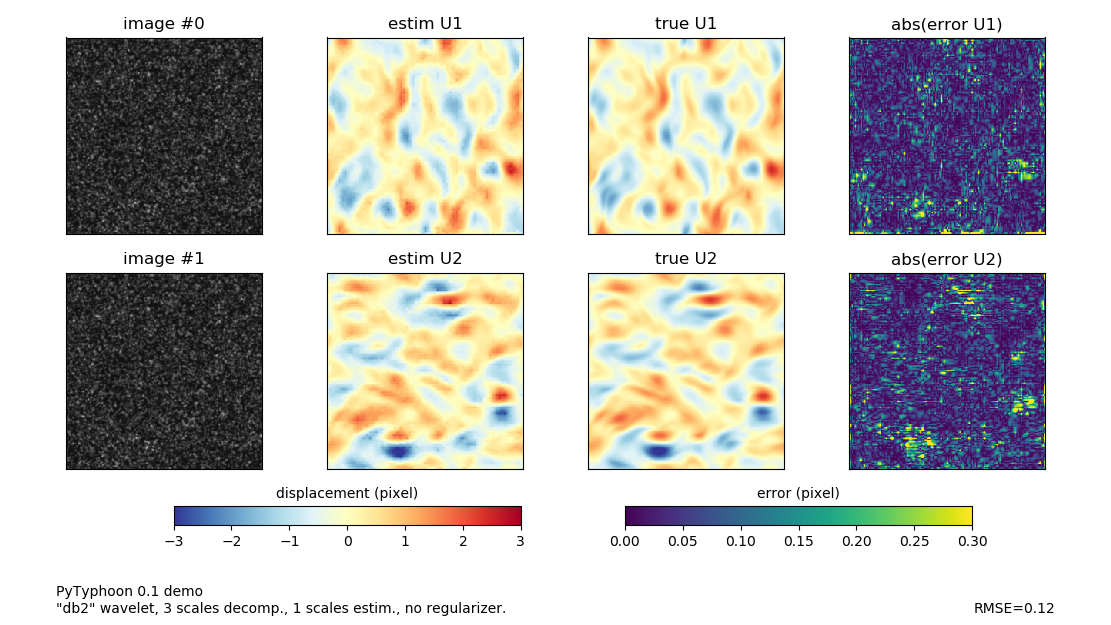
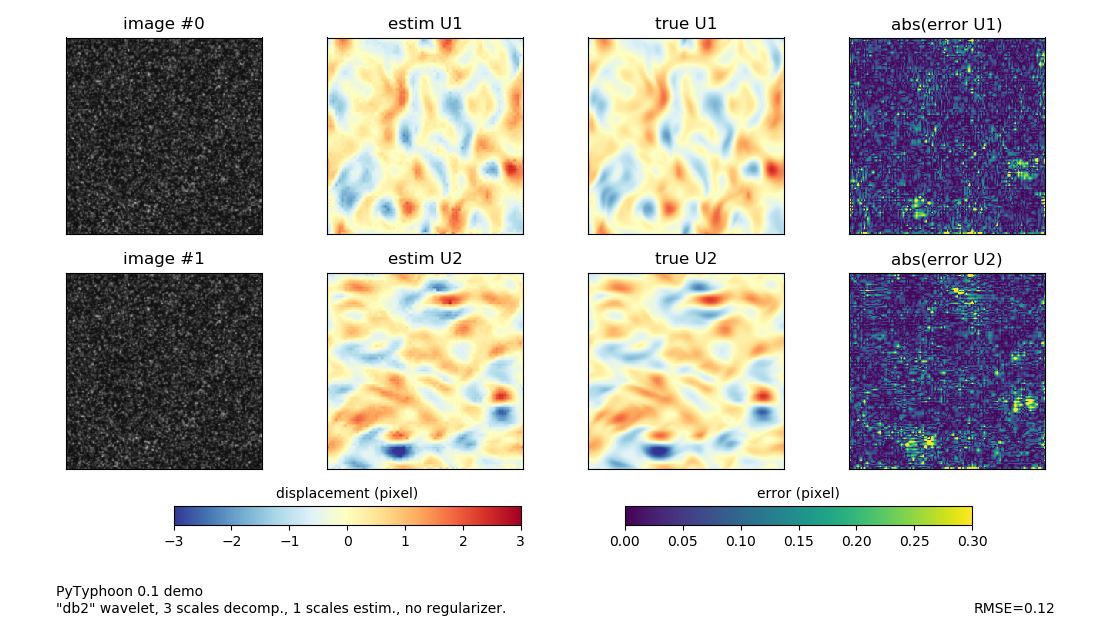
fixed interpolation+wavelet boundary condition issues

Changed region(s): [[0.7651, 0.4256, 0.9487, 0.76], [0.7651, 0.0608, 0.9487, 0.3952]]

diff --git a/pytyphoon.py b/pytyphoon.py
@@ -41,6 +41,8 @@ import pywt
 import scipy
 import scipy.ndimage as ndimage
 import scipy.optimize as optimize
+import scipy.interpolate as interpolate
+import matplotlib.pyplot as pyplot #TMP
 ###
 
 class OpticalFlowCore:
@@ -50,28 +52,31 @@ class OpticalFlowCore:
     Updated by P. DERIAN 2018-01-11: generic n-d version.
     """
 
-    def __init__(self, shape, dtype=numpy.float32):
+    def __init__(self, shape, dtype=numpy.float32, interpolation_order=3):
         """Constructor.
 
         :param shape: the grid shape;
         :param dtype: numpy.float32 or numpy.float64.
+        :param interpolation_order: spline interpolation order>0, faster when lower.
 
         Written by P. DERIAN 2018-01-09.
-        Updated by P. DERIAN 2018-01-11: generic n-d version.
+        Updated by P. DERIAN 2018-01-11: generic n-d version, changed boundary condition.
         """
         self.dtype = dtype
         ### grid coordinates
         self.shape = shape
         self.ndim = len(self.shape)
         # 1D
-        self.x = (numpy.arange(s, dtype=self.dtype) for s in self.shape)
+        self.x = tuple(numpy.arange(s, dtype=self.dtype) for s in self.shape)
         # N-D
         self.X = numpy.indices(self.shape, dtype=self.dtype)
         self.Xcoords = numpy.vstack((X.ravel() for X in self.X))
         ### Misc parameters
         self.sigma_blur = 0.5 #gaussian blur sigma before spatial gradient computation
-        self.interpolation_order = 3 #pixel interpolation order
-        self.boundary_condition = 'wrap' #boundary condition
+        self.interpolation_order = interpolation_order #pixel interpolation order
+        self.boundary_condition = 'mirror' #boundary condition
+        # Note: setting the bc to 'constant', 'reflect' or 'wrap' seems to cause issues...?
+        # while 'nearest', 'mirror' are OK.
         ### Buffer
         self.buffer = numpy.zeros(numpy.prod(self.shape), dtype=dtype)
 
@@ -144,34 +149,41 @@ class Typhoon:
         """
         self.core = OpticalFlowCore(shape) if (shape is not None) else None
 
-    def solve(self, im0, im1, wav='haar', levels_decomp=3, levels_estim=None,
+    def solve(self, im0, im1, wav='haar', mode=None,
+              levels_decomp=3, levels_estim=None,
               U0=None):
         """Solve the optical flow problem for given images and wavelet.
 
         :param im0: the first (grayscale) image;
         :param im1: the second (grayscale) image;
         :param wav: the name of the wavelet;
+        :param mode: the signal extension mode ('zero', 'periodization'), see [a].
         :param levels_decomp: number of decomposition levels;
         :param levels_estim: number of estimation levels (<=levels_decomp);
         :param U0: optional first guess for U as (U1_0, U2_0, ...).
         :return: U=(U1, U2, ...) the estimated displacement along the first, second, ... axes.
 
-        Note: without explicit regularization terms, it is necessary to set
-            levels_estim<levels_decomp in order to close the estimation problem.
+        Notes:
+            - without explicit regularization terms, it is necessary to set
+              levels_estim<levels_decomp in order to close the estimation problem.
+            - 'periodization' mode is much faster, but creates issues near edges.
+
+        References:
+            [a] https://pywavelets.readthedocs.io/en/latest/ref/signal-extension-modes.html
 
         Written by P. DERIAN 2018-01-09.
-        Updated by P. DERIAN 2018-01-11: generic n-d version.
+        Updated by P. DERIAN 2018-01-11: generic n-d version, checked levels.
         """
         ### Core
         # create a new core if the image shape is not compatible
         if (self.core is None) or (not numpy.testing.assert_equal(self.core.shape, im0.shape)):
             self.core = OpticalFlowCore(im0.shape)
-        ### Images
-        self.im0 = im0.astype(self.core.dtype)
-        self.im1 = im1.astype(self.core.dtype)
         ### Wavelets
         self.wav = pywt.Wavelet(wav)
-        self.wav_boundary_condition = 'periodization'
+        if (mode is None) or (mode not in pywt.Modes.modes):
+            mode = 'periodization'
+            print('[!] set mode to "{}".'.format(mode))
+        self.wav_boundary_condition = mode
         # check levels_decomp w.r.t. pywt
         levels_max = min([pywt.dwt_max_level(s, self.wav) for s in self.core.shape])
         if levels_decomp>levels_max:
@@ -186,6 +198,11 @@ class Typhoon:
         # set the final levels values
         self.levels_decomp = levels_decomp
         self.levels_estim = levels_estim if (levels_estim is not None) else self.levels_decomp-1
+        ### Images
+        # make sure the images have size compatible with decomposition levels, padding
+        # if necessary
+        self.im0 = im0.astype(self.core.dtype)
+        self.im1 = im1.astype(self.core.dtype)
         ### Motion fields
         # initialize with given fields, if any, otherwise with zeros.
         if U0 is None:
